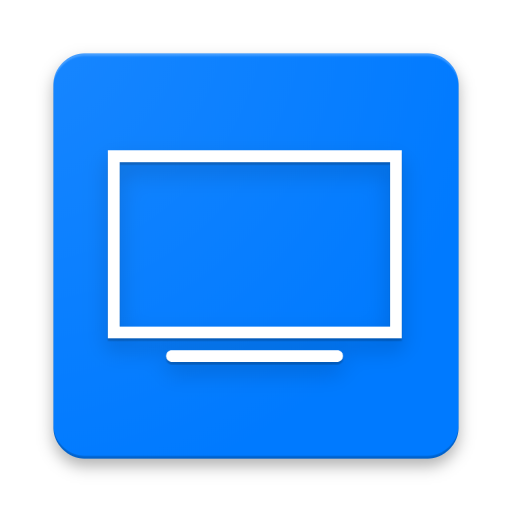
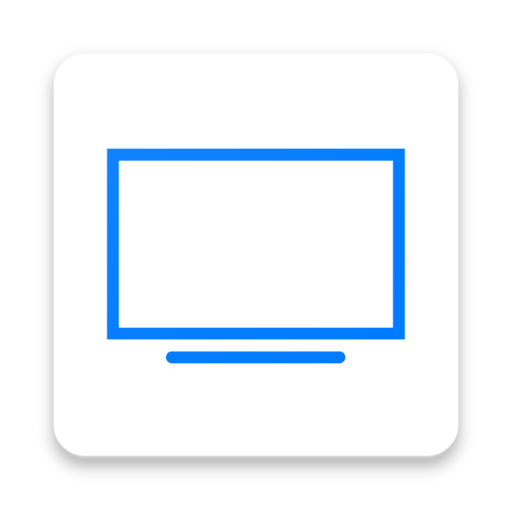
Create build script & updates for 1.2.2
- Create scripts for copying/modifying assets and building app
- Fix back button issue on home page
- Update app icon
- Implement true fullscreen for video streaming by hiding system tray

diff --git a/src/components/Channel.vue b/src/components/Channel.vue
@@ -53,6 +53,12 @@ export default {
     }
   },
   methods: {
+    fullscreenSuccess: function () {
+      console.log('fullscreen success')
+    },
+    fullscreenError: function (error) {
+      console.log('fullscreen error' + error)
+    },
     fullscreen: function () {
       var iframe = document.getElementById('video-frame')
       var requestFullScreen = iframe.requestFullScreen || iframe.mozRequestFullScreen || iframe.webkitRequestFullScreen
@@ -77,12 +83,22 @@ export default {
         /* global admob */
         /* eslint no-undef: ["error", { "typeof": true }] */
         if (window.admob) admob.banner.hide()
+        /* global AndroidFullScreen */
+        /* eslint no-undef: ["error", { "typeof": true }] */
+        if (window.AndroidFullScreen) {
+          AndroidFullScreen.immersiveMode(this.fullscreenSuccess, this.fullscreenError)
+        }
       } else {
         screen.orientation.lock('portrait')
         if (window.plugins) window.plugins.insomnia.allowSleepAgain()
         /* global admob */
         /* eslint no-undef: ["error", { "typeof": true }] */
         if (window.admob) admob.banner.show()
+        /* global AndroidFullScreen */
+        /* eslint no-undef: ["error", { "typeof": true }] */
+        if (window.AndroidFullScreen) {
+          AndroidFullScreen.showSystemUI(this.fullscreenSuccess, this.fullscreenError)
+        }
       }
     },
     stopVideo: function () {

diff --git a/app/www/index.html b/app/www/index.html
@@ -1,1 +1,1 @@
-<!DOCTYPE html><html><head><meta charset=utf-8><meta name=viewport content="width=device-width,initial-scale=1"><title>mobile-tv</title><link href=./static/css/app.d7af39f7070821bbc95a61ab487c8820.css rel=stylesheet></head><body><div id=app></div><script type=text/javascript src=./static/js/manifest.2ae2e69a05c33dfc65f8.js></script><script type=text/javascript src=./static/js/vendor.b84d3f0f0c80396a1c91.js></script><script type=text/javascript src=./static/js/app.074c96e80ad1f79a231a.js></script></body></html>
+<!DOCTYPE html><html><head><meta charset=utf-8><meta name=viewport content="width=device-width,initial-scale=1"><title>mobile-tv</title><link href=./static/css/app.9d60435d9bc7e990ab75ed26e7727a0c.css rel=stylesheet></head><body><div id=app></div><script type=text/javascript src=./static/js/manifest.2ae2e69a05c33dfc65f8.js></script><script type=text/javascript src=./static/js/vendor.034224a5af82648645fd.js></script><script type=text/javascript src=./static/js/app.4fd440f1f2568a97a7a0.js></script></body></html>

diff --git a/src/App.vue b/src/App.vue
@@ -40,7 +40,7 @@ export default {
       e.preventDefault()
       console.log('pressed backbutton')
       let back = document.getElementById('back')
-      if (back) {
+      if (back && back.getAttribute('class') !== 'disabled') {
         back.click()
       } else {
         // Exit app
